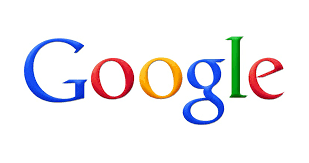
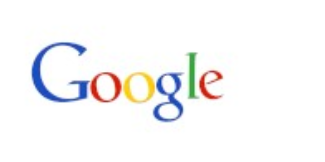
4 jun correction

Changed region(s): [[0.0583, 0.216, 0.932, 0.7716]]

diff --git a/html_css_task_3_jun/index.html b/html_css_task_3_jun/index.html
@@ -12,12 +12,12 @@
     </div>
 
     <div class="green">
-      <h2>What tihs is</h2>
+      <h2>What this is</h2>
     </div>
     <p>
       Welcome to <i>my first webpage.</i> I created this webpage without the
       assistance of webpage editor. Just my little text editor and a keen
-      <b>understanding of html.</b>
+      <i><b>understanding of html.</b></i>
     </p>
     <div class="green">
       <h2>Why this is</h2>
@@ -52,7 +52,6 @@
     <a href="https://www.google.com/"
       ><img
         src="./images/google.png"
-        style="height: 100px; border: 2px dashed rgb(169, 169, 169)"
         alt="no image found"
     /></a>
 
@@ -94,13 +93,13 @@
         name="comment"
         id="comment"
         rows="8"
-        placeholder="Your comment"
+        placeholder="Your comments"
       ></textarea>
 
-      <p>Are you :</p>
-      <input type="radio" id="male" name="gender" value="male" />
+      <p>Are you:</p>
+      <input type="radio" class="gen" id="male" name="gender" value="male" />
       <label for="male">Male</label><br />
-      <input type="radio" id="female" name="gender" value="female" />
+      <input type="radio" class="gen" id="female" name="gender" value="female" />
       <label for="female">Female</label><br />
 
       <input type="submit" id="submit" value="Submit Query" />
@@ -129,6 +128,10 @@
             return false;
         }
 
+        name.value="";
+        comment.value ="";
+        ismale.checked = false;
+        isfemale.checked = false;
         alert("form submited");
         return true;
     })

diff --git a/html_css_task_3_jun/styles.css b/html_css_task_3_jun/styles.css
@@ -1,13 +1,7 @@
-table,th,td {
-      border: 1px solid black;
-      
-}
-table{
-  background: rgba(128, 128, 128, 0.89);
-}
 body{
   background-color:#ffffcc;
   margin: 30px;
+  font-size: 0.85rem;
   font-family: Arial, Helvetica, sans-serif;
 }
 
@@ -20,7 +14,7 @@ body{
   font-style: italic;
   display: flex;
   align-items: center;
-  padding: 10px 0px;
+  padding: 5px 0px;
   letter-spacing: 10px;
   color: #ffffcc;
   background: #990000;
@@ -41,6 +35,12 @@ input::placeholder {
 textarea::placeholder {
   opacity: 1;
   color: black;
+  font-family:'Courier New', Courier, monospace;
+}
+
+img { 
+  height: 110px;
+  border: 2px dashed rgb(169, 169, 169);
 }
 
 
@@ -50,15 +50,17 @@ textarea::placeholder {
 }
 
 .green > h2{
+  padding: 2px 0px;
 margin-left: 10px;
 }
 
 .lists{
     font-style: italic;
-    color: #cc0000;
+    color: #aa2c23;
 }
 
 .grey{
+  font-size: 1rem;
   color: rgba(128, 128, 128, 0.68);
 }
 
@@ -66,5 +68,25 @@ margin-left: 10px;
   margin-top: 10px;
 }
 a {
+  color: #9a358f;
   text-decoration: none;
+}
+
+.gen{
+  margin: 10px 0px;
+}
+
+.title p {
+  margin: -5px;
+}
+
+table,
+th,
+td {
+  border: 1px solid black;
+
+}
+
+table {
+  background: #cccccc;
 }
